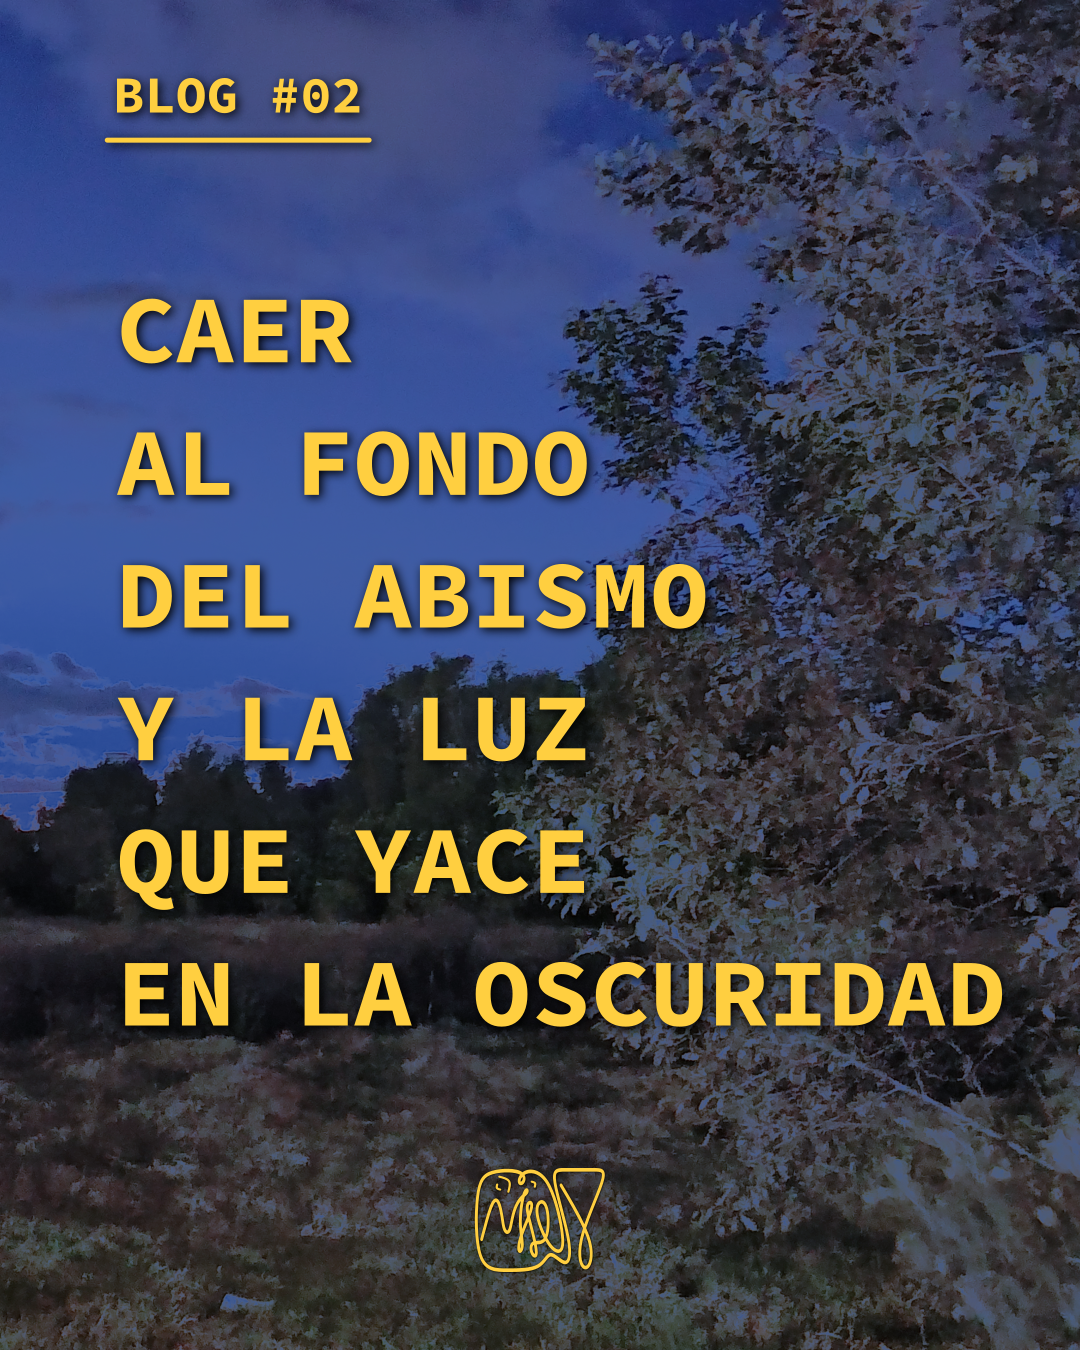
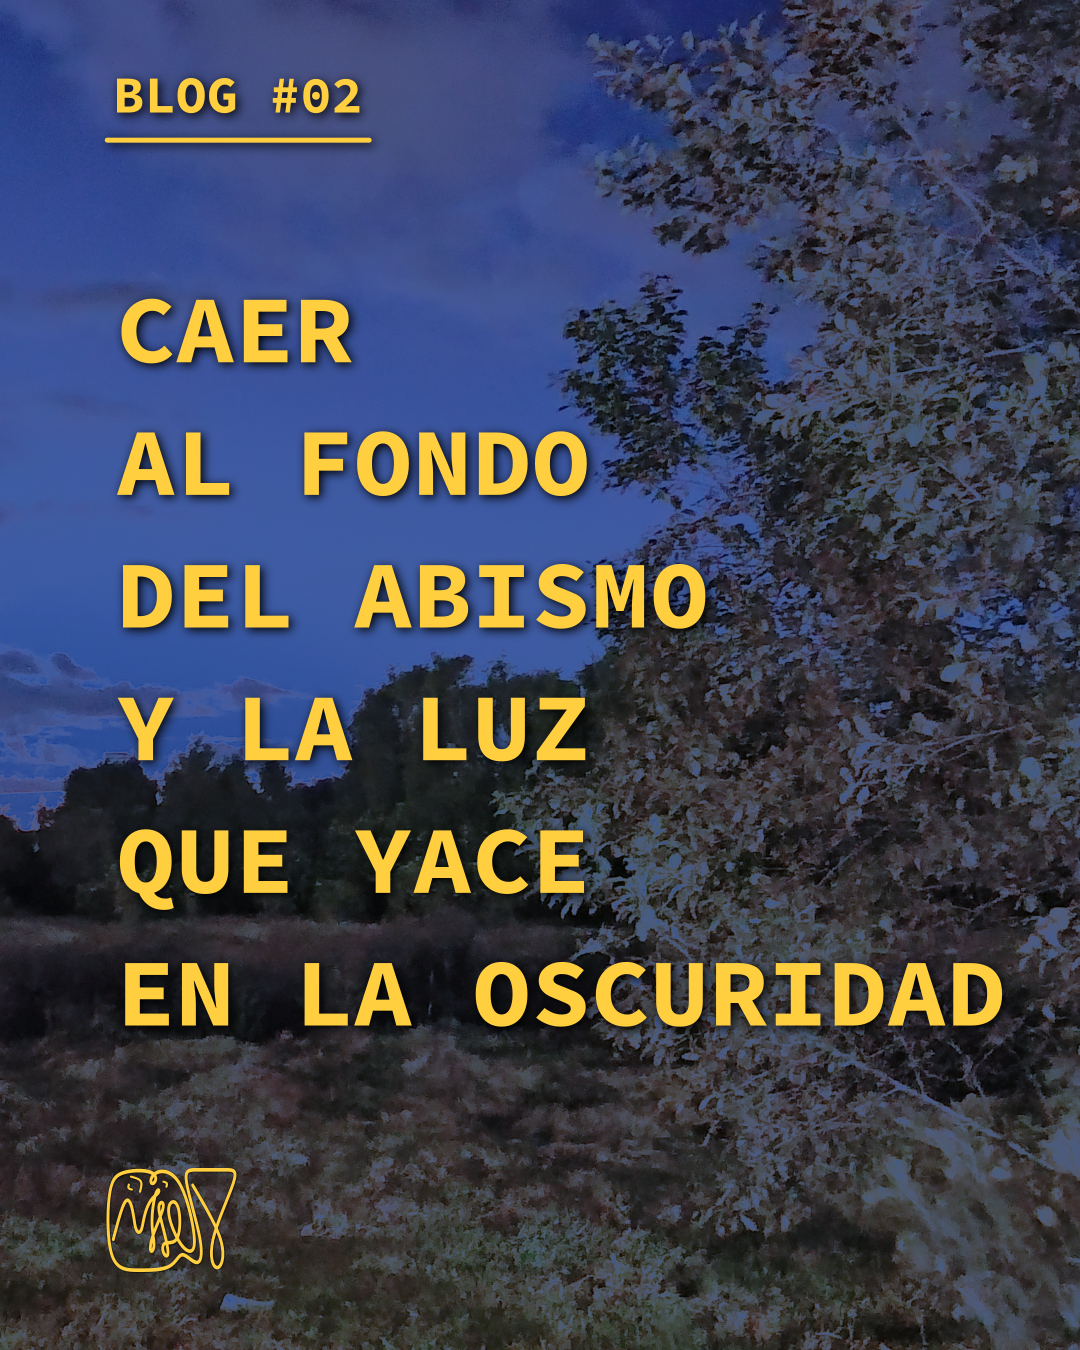
Quartz sync: Sep 9, 2026, 2:16 AM

Changed region(s): [[0.4278, 0.84, 0.55, 0.9644], [0.0917, 0.84, 0.2139, 0.9644]]

diff --git a/content/Escritos/Fotones.md b/content/Escritos/Fotones.md
@@ -5,10 +5,11 @@ Categories:
 Rank: 10
 ---
 # Fotones
-Sin fotones no hay electromagnetismo,
-sin electromagnetismo no hay luz.
+Sin fotones, no hay electromagnetismo,
+sin electromagnetismo, no hay luz.
 
-Si veo, es porque hay un sin fin de fotones danzando en mi fragmentada retina,
+Si veo,
+es porque hay un sin fin de fotones danzando en mi fragmentada retina,
 porque no hay vacío,
 porque no estoy vacío.
 

diff --git a/content/Blogs/Valores Nucleares.md b/content/Blogs/Valores Nucleares.md
@@ -3,7 +3,7 @@ Creado: 2024-08-01
 Categories:
   - "[[Blog]]"
   - "[[Midot]]"
-Cover: "[[SFR-CNTLLSSGD CoreVlues.png]]"
+Cover: "[[SFR-CNTLLSSGD 01-ValoresNucleares-P.png]]"
 ---
 # Valores Nucleares
 >[!important] ¿Qué te permite tener la fuerza para estar dispuesto, capaz y deseoso de enfrentar nuevos desafíos en la vida?
